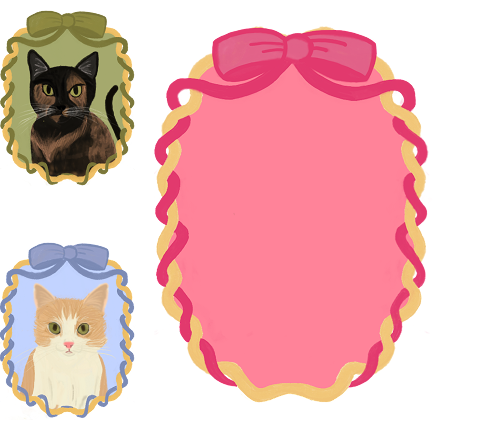
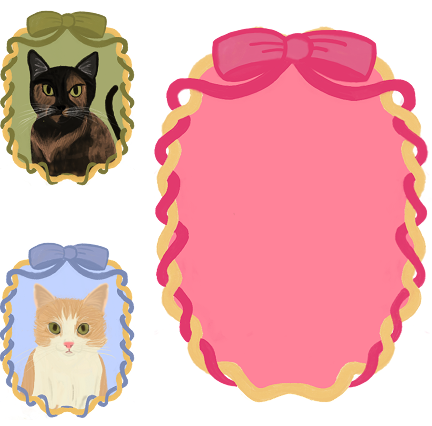
to desktop

diff --git a/src/styles/lib/_landing.scss b/src/styles/lib/_landing.scss
@@ -15,30 +15,31 @@
     max-height: 80vh;
     margin-top: auto;
     margin-bottom: auto;
-    margin-left: 10rem;
+    margin-left: 6rem;
+    margin-right: 2rem;
 
     object-fit: contain;
 }
 
 #landing div {
     //background-color: green;
-    height: 100vh;
+    //height: 100vh;
 }
 
 
 
 #landing .overlay-text {
     border-radius: 0;
-    margin: auto 5rem;
-
-    // padding-left: 2rem;
-    // padding-right: 8rem;
+   // margin: auto 5rem;
+margin: auto;
+     margin-left: 3rem;
+     margin-right: 3rem;
     .text {
         display: flex;
         flex-flow: column;
         justify-content: center;
-        height: 100vh;
-        max-width: 500px;
+     //   height: 100vh;
+        //max-width: 500px;
     }
 }
 
@@ -55,52 +56,68 @@
 
 @media (max-width: 992px) {
     #landing {
-        position: relative;
+      //  position: relative;
         /* Establishes a positioning context */
-        display: inline-block;
+      //  display: inline-block;
         /* Shrink-wrap to image size */
     }
 
     #landing img {
-        display: block;
-        width: 95%;
+        //display: block;
+        width: 50%;
+
+        margin: auto;
+        margin-bottom: 2rem ;
+       
+       //  margin: auto;
+        //height: auto;
+    }
+
+    .overlay-text {
+        margin-top: 0 !important; 
+        text-align: center;
+        
+        
+     padding-left: 2rem;
+     padding-right: 2rem;
+    }
+    // .overlay-text {
+    //  //   height: 100vh;
+    //     //position: absolute;
+       
+    //     padding: 5px 3rem;
+    //     text-align: center;
+    //     font-weight: bold;
+    //     margin-top:0;
+    //     width: 100vw;
+    //     max-width: 100vw;
+    
+    //     // border-radius: 3px;
+
+
+    // }
+
+    .text {
         margin: auto;
         height: auto;
     }
 
-    .overlay-text {
-        height: 100vh;
-        position: absolute;
-        /* Position relative to .image-container */
-        top: 0px;
-        /* Adjust distance from top */
-        left: 0px;
-        /* Adjust distance from left */
-        color: white;
-        /* Text color */
-        background-color: rgba(0, 0, 0, 0.5);
-        /* Optional: translucent bg for readability */
-        padding: 5px 3rem;
-        text-align: center;
-        font-weight: bold;
-        margin: auto !important;
-        width: 100vw;
-        max-width: 100vw;
-    
-        // border-radius: 3px;
 
+#landing .overlay-text {
+    border-radius: 0;
+    margin: auto 5rem;
 
-    }
-
+    // padding-left: 2rem;
+    // padding-right: 8rem;
     .text {
-        margin: auto;
-    }
-
-    .flex-landing {
-        //background-color: red;
         display: flex;
-        justify-content: around;
+        flex-flow: column;
+        justify-content: center;
+
+        //max-width: 500px;
     }
+}
+
     // #landing img {
     //     height: 95vh;
     //     width: 100% !important;

diff --git a/src/styles/lib/_global.scss b/src/styles/lib/_global.scss
@@ -38,7 +38,8 @@ h3 {
 }
 
 .card-body {
-    background-color: pink;
+    //background-color: pink;
+    color: var(--text);
     text-align: left;
     width: fit;
     padding: 1rem 5rem 1rem 5rem;
@@ -76,7 +77,7 @@ h3 {
     img {
         height: 15rem;
         width: auto;
-        padding: 1.5rem;
+        padding: 1rem;
     }
 }
 
@@ -85,4 +86,12 @@ h3 {
   grid-template-columns: repeat(2, 1fr);
   column-gap: 10px;
   row-gap: 1em;
+}
+
+
+
+@media (max-width: 992px) {
+.box {
+    grid-template-columns: repeat(1,1fr);
+}
 }

diff --git a/src/views/Home.vue b/src/views/Home.vue
@@ -2,13 +2,13 @@
   <div id="cool">
     <Nav/>
 <section class="" id="landing">
- <div class="d-flex justify-content-around  px-0">
+ <div class="d-flex flex-column flex-lg-row justify-content-lg-around h-100 px-0">
 			  <!-- <div id="val-sketch" class=""> -->
         <img  src="../assets/gallery-frame.png"
 					alt="">
           <!-- </div> -->
 				<div class="overlay-text">
-					<div class="text mt-5">
+					<div class="text">
 					
 						<h1> Hi, I'm Valerie <span id="cute">✨</span> </h1>
             	
